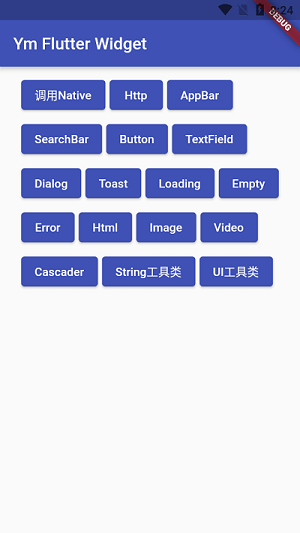
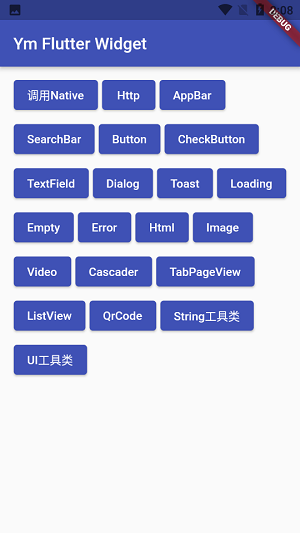
更新0.0.7

diff --git a/README.md b/README.md
@@ -21,13 +21,13 @@ https://ymbok.com/phone-2.html
 
 ```yaml
 dependencies:
-  ym_flutter_widget: ^0.0.6
+  ym_flutter_widget: ^0.0.7
 ```
 
 ### Screenshot
 
-![图片说明](https://ymbok.com/static/ym_flutter_widget/screenshot/1.png?a=1 "1.png")
-![图片说明](https://ymbok.com/static/ym_flutter_widget/screenshot/2.png?a=1 "2.png")
+![图片说明](https://ymbok.com/static/ym_flutter_widget/screenshot/1.png "1.png")
+![图片说明](https://ymbok.com/static/ym_flutter_widget/screenshot/2.png "2.png")
 ![图片说明](https://ymbok.com/static/ym_flutter_widget/screenshot/3.png "3.png")
 ![图片说明](https://ymbok.com/static/ym_flutter_widget/screenshot/4.png "4.png")
 ![图片说明](https://ymbok.com/static/ym_flutter_widget/screenshot/5.png "5.png")
@@ -42,8 +42,9 @@ dependencies:
 ![图片说明](https://ymbok.com/static/ym_flutter_widget/screenshot/14.png "14.png")
 ![图片说明](https://ymbok.com/static/ym_flutter_widget/screenshot/15.png "15.png")
 ![图片说明](https://ymbok.com/static/ym_flutter_widget/screenshot/16.png "16.png")
-![图片说明](https://ymbok.com/static/ym_flutter_widget/screenshot/17.png?a=1 "17.png")
-![图片说明](https://ymbok.com/static/ym_flutter_widget/screenshot/18.png?a=1 "18.png")
+![图片说明](https://ymbok.com/static/ym_flutter_widget/screenshot/17.png "17.png")
+![图片说明](https://ymbok.com/static/ym_flutter_widget/screenshot/18.png "18.png")
+![图片说明](https://ymbok.com/static/ym_flutter_widget/screenshot/19.png "18.png")
 
 ### Super simple to use http
 
@@ -51,13 +52,14 @@ dependencies:
 
 ///登录接口示例
 Future<void> _login() async {
-    String url = await Config.getURL(Config.LOGIN_USER_URL);
+
+    String url = await Config.LOGIN_USER_URL;
 
     //显示进度框
     YmUiUtil.showLoading(context);
 
     //postForm表单提交 post默认为Json方式提交
-    YmHttp.getInstance().postForm(
+    YmHttp().postForm(
         url
         ,{"user_name":_account,"password":_password}
         ,success: (data) {
@@ -89,6 +91,24 @@ Future<void> _login() async {
 ## Super simple to use widget
 
 ```dart
+
+YmAppBar("标题",
+  background:[
+    const Color(0xFF606FFF),
+    const Color(0xFF3446F2),
+  ],onBackClick: goBack,textColor: Colors.white,
+  textAlign: TextAlign.left,
+  rightWidget: YmTextButton(
+      "右边按钮",
+      textColor:Color(0xFFFFFFFF),
+      backgroundColor: Colors.transparent,
+      pressedBackgroundColor: Color(0x50606FFF),
+      size: Size(90,40),
+      onClick:  (){
+        print("right button click");
+      }
+  ),
+),
 
 //显示进度框
 YmUiUtil.showLoading(context);

diff --git a/CHANGELOG.md b/CHANGELOG.md
@@ -1,13 +1,10 @@
 
-## [0.0.8] - 2021/07/10.
+## [0.0.7] - 2021/06/30.
+* add YmBoxDialog
 * add YmCheckButton and YmRadioButton Sample
 * add YmAppBar right button sample
 * add YmQrCode add qr code scan Sample
-
-## [0.0.7] - 2021/06/30.
-* add YmCheckButton
-* add YmRadioButton
-* add YmBoxDialog
+* update YmHttp single instance YmHttp()
 
 ## [0.0.6] - 2021/06/20.
 * add ImageButton Widget and Sample
